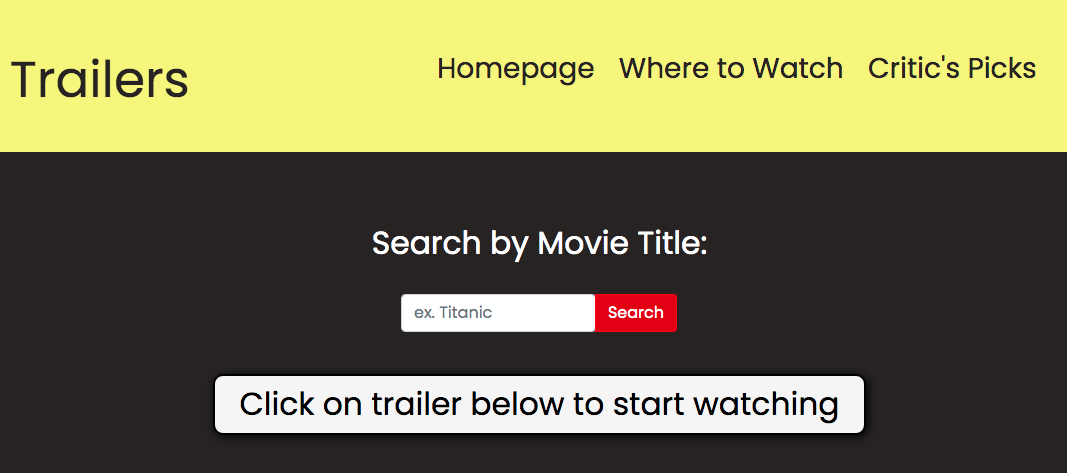
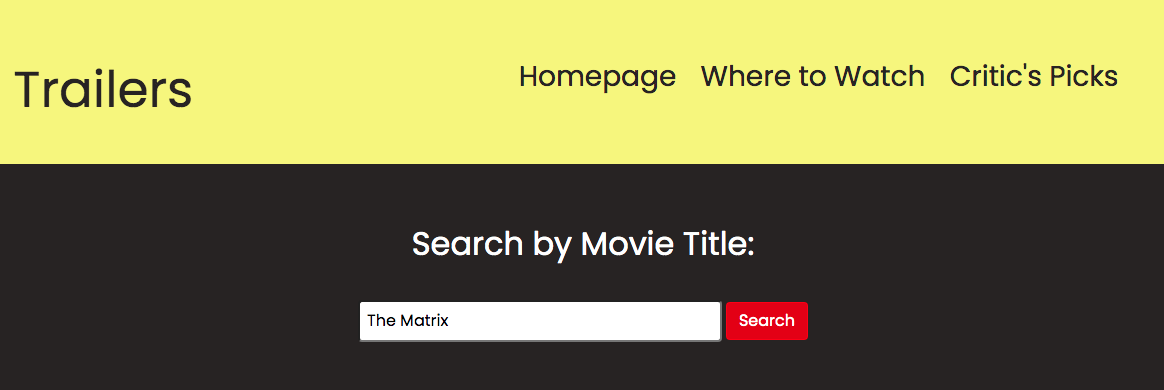
fixed readme images

diff --git a/README.md b/README.md
@@ -19,9 +19,9 @@ Movie Pop was developed using HTML, Google Fonts, CSS, Bootstrap, Javascript, an
 App's Features:
 <br>
 Homepage: The homepage's main function is to direct the user to read reviews she/he is interested, check out movie trailers, or find where to watch a movie. It provides a suggested movie that is randomly generated from the top 20 popular movies on the TMDb database. For each click event the user is given a new movie recommendation. The "what's poppin'?" section displays trending movie information.<br><br>
-2. Reviews: Once in the reviews page the user can click different buttons that will display segments of top critically acclaimed movies. The user can read and see relevant images of the displayed movie titles. <br><br>
-3. Trailers: In this section, the user can search for any movie they'd like to and watch the relevant YouTube trailer for it. They can use their result from the movie shuffler or just type in something they're interested in. Note: the code for this application does function as expected, but YouTube sends back console log messages indicating their embedded URL was not used. This doesn't affect the application's performance. <br><br>
-4. Where to Watch: If the user is curious about a movie they'd like to see, she/he can use this page to see if Netflix, Disney+, etc. are streaming the particular movie. <br>
+Reviews: Once in the reviews page the user can click different buttons that will display segments of top critically acclaimed movies. The user can read and see relevant images of the displayed movie titles. <br><br>
+Trailers: In this section, the user can search for any movie they'd like to and watch the relevant YouTube trailer for it. They can use their result from the movie shuffler or just type in something they're interested in. Note: the code for this application does function as expected, but YouTube sends back console log messages indicating their embedded URL was not used. This doesn't affect the application's performance. <br><br>
+Where to Watch: If the user is curious about a movie they'd like to see, she/he can use this page to see if Netflix, Disney+, etc. are streaming the particular movie. After each search event, the typed in text is saved to local storage. This method allows the user to view their past searches. If the user wants to start fresh she/he can use the clear button to remove these previous searches from this page and local storage. <br>
 
 <br>
 Deployed Application URL:<br>
@@ -64,7 +64,9 @@ Where to Watch: searched movie output
 <img src = "./images/proj-11.png">
 <br>
 Where to Watch: previously searched movies
+<br>
 <img src = "./images/proj-12.png">
+<br>
 
 
 
